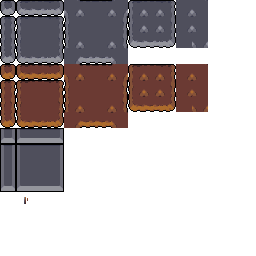
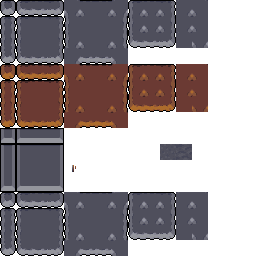
Adds objects

diff --git a/src/fast_tilemap.cpp b/src/fast_tilemap.cpp
@@ -2,8 +2,6 @@
 
 using namespace godot;
 
-static const char* terrain_type[] = {"terrain", "wall", "object"};
-
 const std::unordered_map<int, Vector2> FastTileMap::autotile_variant_map = {
 	{0, Vector2(0, 0)},
 	{2, Vector2(0, 3)},
@@ -55,9 +53,10 @@ const std::unordered_map<int, Vector2> FastTileMap::autotile_variant_map = {
 };
 
 void FastTileMap::_bind_methods() {
-	ClassDB::bind_method(D_METHOD("set_cell", "cellPos", "atlas", "TILE_SIZE", "texture", "z_index"), &FastTileMap::set_cell);
+	ClassDB::bind_method(D_METHOD("set_cell", "cellPos", "atlas", "texture", "z_index", "offset", "size"), &FastTileMap::set_cell, DEFVAL(Vector2(0, 0)), DEFVAL(Vector2(1, 1)));
+	ClassDB::bind_method(D_METHOD("set_cells", "cellPositions", "config"), &FastTileMap::set_cells);
 	ClassDB::bind_method(D_METHOD("clear_cells"), &FastTileMap::clear_cells);
-	ClassDB::bind_method(D_METHOD("set_cells_autotile", "cellPositions", "tile", "TILE_SIZE", "texture", "z_index"), &FastTileMap::set_cells_autotile);
+	ClassDB::bind_method(D_METHOD("set_cells_autotile", "cellPositions", "config"), &FastTileMap::set_cells_autotile);
 }
 
 FastTileMap::FastTileMap() {
@@ -66,19 +65,32 @@ FastTileMap::FastTileMap() {
 FastTileMap::~FastTileMap() {
 }
 
-void FastTileMap::set_cell(Vector2 cellPos, Vector2 atlas, int TILE_SIZE, Ref<Texture2D> texture, int z_index) {
+void FastTileMap::set_cell(Vector2 cellPos, Vector2 atlas, Ref<Texture2D> texture, int z_index, Vector2 offset, Vector2 size) {
 	Vector2 tilePos = cellPos * TILE_SIZE;
-	
+
 	RID tileRID = RenderingServer::get_singleton()->canvas_item_create();
 	RenderingServer::get_singleton()->canvas_item_set_parent(tileRID, get_canvas_item());
-	
-	Rect2 src_rect(atlas.x * TILE_SIZE, atlas.y * TILE_SIZE, TILE_SIZE, TILE_SIZE);
-	Rect2 dst_rect(tilePos.x, tilePos.y, TILE_SIZE, TILE_SIZE);
-	
+
+	Rect2 src_rect(atlas.x * TILE_SIZE, atlas.y * TILE_SIZE, size.x * TILE_SIZE, size.y * TILE_SIZE);
+	Rect2 dst_rect(tilePos.x + offset.x * TILE_SIZE, tilePos.y + offset.y * TILE_SIZE, size.x * TILE_SIZE, size.y * TILE_SIZE);
+
 	RenderingServer::get_singleton()->canvas_item_add_texture_rect_region(tileRID, dst_rect, texture->get_rid(), src_rect);
 	RenderingServer::get_singleton()->canvas_item_set_z_index(tileRID, z_index);
-	
+
 	tileRIDs[cellPos] = tileRID;
+}
+
+void FastTileMap::set_cells(Array cellPositions, Dictionary config) {
+	Vector2 atlas = config["atlas"];
+	Ref<Texture2D> texture = config["texture"];
+	int z_index = config["z_index"];
+	Vector2 offset = config["offset"];
+	Vector2 size = config["size"];
+	
+	for (int i = 0; i < cellPositions.size(); i++) {
+		Vector2 cellPos = cellPositions[i];
+		set_cell(cellPos, atlas, texture, z_index, offset, size);
+	}
 }
 
 void FastTileMap::clear_cells() {
@@ -90,29 +102,23 @@ void FastTileMap::clear_cells() {
     tileRIDs.clear();
 }
 
-void FastTileMap::set_cells_autotile(Array cellPositions, int atlas, int TILE_SIZE, Ref<Texture2D> texture, int z_index) {
+void FastTileMap::set_cells_autotile(Array cellPositions, Dictionary config) {
+    Vector2 atlas = config["atlas"];
+    Ref<Texture2D> texture = config["texture"];
+    int z_index = config["z_index"];
+    Vector2 offset = config["offset"];
+    Vector2 size = config["size"];
+    
     std::unordered_set<Vector2> position_set;
     position_set.reserve(cellPositions.size());
     for (int i = 0; i < cellPositions.size(); i++) {
         position_set.insert(cellPositions[i]);
     }
-    
+
     for (int i = 0; i < cellPositions.size(); i++) {
         Vector2 cellPos = cellPositions[i];
-        Vector2 tilePos = cellPos * TILE_SIZE;
-        
-        Vector2 variant = get_autotile_variant(cellPos, position_set);
-        
-        RID tileRID = RenderingServer::get_singleton()->canvas_item_create();
-        RenderingServer::get_singleton()->canvas_item_set_parent(tileRID, get_canvas_item());
-        
-        Rect2 src_rect(variant.x * TILE_SIZE, (atlas * TILE_SIZE * ATLAS_SIZE) + variant.y * TILE_SIZE, TILE_SIZE, TILE_SIZE);
-        Rect2 dst_rect(tilePos.x, tilePos.y, TILE_SIZE, TILE_SIZE);
-        
-        RenderingServer::get_singleton()->canvas_item_add_texture_rect_region(tileRID, dst_rect, texture->get_rid(), src_rect);
-        RenderingServer::get_singleton()->canvas_item_set_z_index(tileRID, z_index);
-        
-        tileRIDs[cellPos] = tileRID;
+        Vector2 variant = get_autotile_variant(cellPos, position_set) + atlas;
+        set_cell(cellPos, variant, texture, z_index);
     }
 }
 
@@ -127,24 +133,24 @@ Vector2 FastTileMap::get_autotile_variant(Vector2 cellPos, const std::unordered_
         cellPos + Vector2(0, 1),
         cellPos + Vector2(1, 1)
     };
-    
+
     bool hasTop = position_set.count(neighbors[1]);
     bool hasLeft = position_set.count(neighbors[3]);
     bool hasRight = position_set.count(neighbors[4]);
     bool hasBottom = position_set.count(neighbors[6]);
-    
+
     int bitmask = 0;
-    
+
     if (hasTop) bitmask |= 2;
     if (hasLeft) bitmask |= 8;
     if (hasRight) bitmask |= 16;
     if (hasBottom) bitmask |= 64;
-    
+
     if (hasTop && hasLeft && position_set.count(neighbors[0])) bitmask |= 1;
     if (hasTop && hasRight && position_set.count(neighbors[2])) bitmask |= 4;
     if (hasBottom && hasLeft && position_set.count(neighbors[5])) bitmask |= 32;
     if (hasBottom && hasRight && position_set.count(neighbors[7])) bitmask |= 128;
-    
+
     if (auto it = autotile_variant_map.find(bitmask); it != autotile_variant_map.end()) {
         return it->second;
     }

diff --git a/src/fast_tilemap.h b/src/fast_tilemap.h
@@ -27,17 +27,19 @@ protected:
 	static void _bind_methods();
     
     private:
+    static constexpr int TILE_SIZE = 16;
     static constexpr int ATLAS_SIZE = 4;
     static const std::unordered_map<int, Vector2> autotile_variant_map;
-	Dictionary tileRIDs;
+    Dictionary tileRIDs;
 
 public:
     FastTileMap();
     ~FastTileMap();
 
-    void set_cell(Vector2 cellPos, Vector2 atlas, int TILE_SIZE, Ref<Texture2D> texture, int z_index);
+    void set_cell(Vector2 cellPos, Vector2 atlas, Ref<Texture2D> texture, int z_index, const Vector2 offset = Vector2(0, 0), const Vector2 size = Vector2(1, 1));
+    void set_cells(Array cellPositions, Dictionary config);
     void clear_cells();
-    void set_cells_autotile(Array cellPositions, int atlas, int TILE_SIZE, Ref<Texture2D> texture, int z_index);
+    void set_cells_autotile(Array cellPositions, Dictionary config);
     Vector2 get_autotile_variant(Vector2 cellPos, const std::unordered_set<Vector2>& position_set);
 };
 
